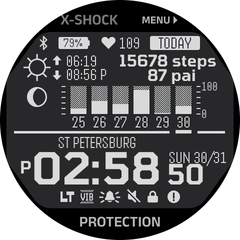
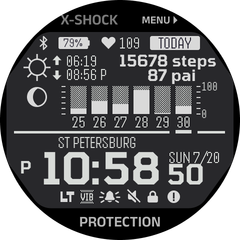
feat(x-shock): new date format

Changed region(s): [[0.1167, 0.6125, 0.3792, 0.7875], [0.7875, 0.6125, 0.9333, 0.7]]

diff --git a/x-shock/watchface/index.js b/x-shock/watchface/index.js
@@ -167,7 +167,7 @@ WatchFace({
     let prevDay = undefined;
 
     const update = () => {
-      const { day, month, week, year } = timeSensor;
+      const { day, month, week } = timeSensor;
 
       if (prevDay === day) {
         return;
@@ -176,12 +176,11 @@ WatchFace({
       prevDay = day;
 
       const weekdayString = WEEKDAYS[week - 1];
-      const dayString = day.toString();
-      const daysString = new Date(year, month, 0).getDate().toString();
-      textWidget.setProperty(
-        hmUI.prop.TEXT,
-        `${weekdayString} ${dayString}/${daysString}`,
-      );
+      const monthString = month.toString().padStart(2, ' ');
+      const dayString = day.toString().padStart(2, ' ');
+      const dateText = `${weekdayString} ${monthString}/${dayString}`;
+
+      textWidget.setProperty(hmUI.prop.TEXT, dateText);
     };
 
     hmUI.createWidget(hmUI.widget.WIDGET_DELEGATE, {
